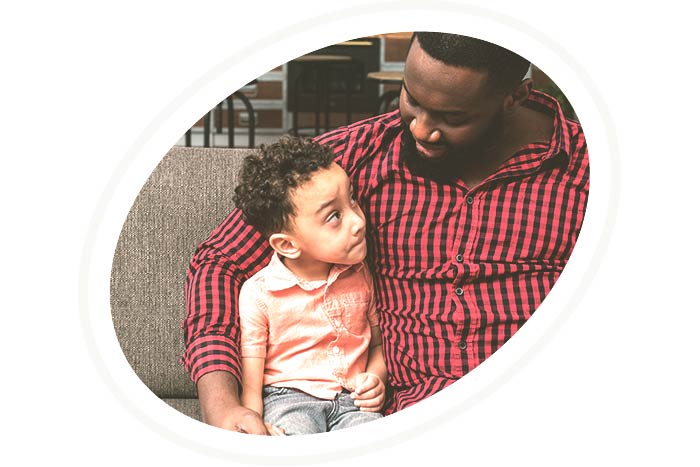
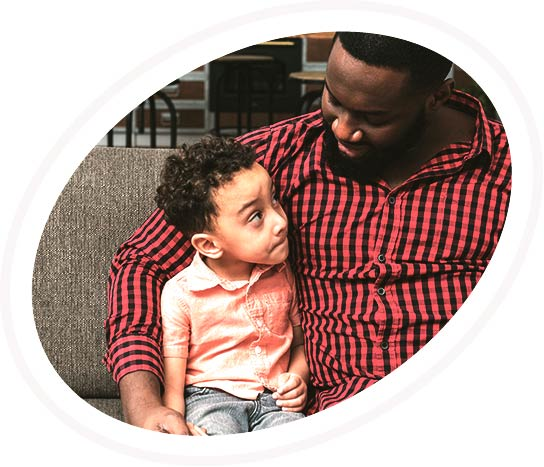
0.1.1 - Photos added to homepage

diff --git a/index.htm b/index.htm
@@ -85,7 +85,7 @@
 
 <!-- CONTAINER FOR CONTENT -->
     <main class="container">
-      <div class="col-6">
+      <div class="col-6 col-left">
         <div id="p-homepage-background-top-left">
           <p class="p-first">
             Mental Health Friendly Communities provides a listing of online resources describing 
@@ -98,10 +98,22 @@
             mental conditions.
           </p>
         </div>
+        <img src="/assets/img/copy/desktop/photo_homepage_left.jpg" alt="Mental Health Friendly Communities bring families back together." id="img-copy-homepage-left">
+        <p>
+          If you need information but aren&rsquo;t sure where to look on the site or aren&rsquo;t sure about your 
+          or your loved one&rsquo;s mental condition, please fill out the questionnaire below.
+        </p>
       </div>
-      <div class="col-6">
+      <div class="col-6 col-right">
         <div id="p-homepage-background-top-right">
           <iframe width="395" height="215" src="https://www.youtube.com/embed/XidXi3EqPko" frameborder="0" allow="accelerometer; autoplay; encrypted-media; gyroscope; picture-in-picture" allowfullscreen></iframe>
+          <img src="/assets/img/copy/desktop/photo_homepage_right.jpg" alt="Mental Health Friendly Communities bring families back together." id="img-copy-homepage-right">
+          <p>
+            Otherwise, you may start browsing our listings and directories using the search field below. 
+          </p>
+          <p>
+            You may also find links to our information using the main menu.
+          </p>
         </div>
       </div>
     </main>

diff --git a/assets/css/main.css b/assets/css/main.css
@@ -173,8 +173,7 @@ header {
 .carousel-item .carousel-cta p {
   margin: 1.5rem; }
 .carousel-item .carousel-cta .button-cta {
-  margin: 0 0 1.5rem 1.5rem;
-  display: relative; }
+  margin: 0 0 1.5rem 1.5rem; }
 
 /****** HOMEPAGE ELLIPSES ******/
 #homepage-ellipses {
@@ -186,9 +185,9 @@ header {
     position: relative;
     border-radius: 100%; }
   #homepage-ellipses #ellipse-blue {
-    width: 77.5%;
+    width: 88.5%;
     top: -56px;
-    left: 23%;
+    left: 12%;
     z-index: 1; }
   #homepage-ellipses #ellipse-dark_green {
     width: 100%;
@@ -202,7 +201,12 @@ header {
   display: flex; }
   .container .col-6 {
     display: flex;
-    flex: auto; }
+    flex: auto;
+    flex-direction: column; }
+  .container .col-left p {
+    margin: 36px 0 0 54px; }
+  .container .col-right p {
+    margin: 36px 0 0 62px; }
 
 #p-homepage-background-top-left {
   background-image: url("/assets/img/copy/desktop/background_homepage_copy_top.svg");
@@ -214,12 +218,19 @@ header {
 
 #p-homepage-background-top-right {
   width: 100%;
+  height: 261px;
   margin-top: 50px;
   background-image: url("/assets/img/copy/desktop/background_homepage_video.svg");
   background-repeat: no-repeat;
-  background-size: 90%;
+  background-size: 60%;
   background-position: 50% 0; }
   #p-homepage-background-top-right iframe {
     margin: 21px 0 0 63px; }
+
+#img-copy-homepage-left {
+  margin-top: 36px; }
+
+#img-copy-homepage-right {
+  margin: 70px 0 0 62px; }
 
 /*# sourceMappingURL=main.css.map */

diff --git a/assets/css/main.scss b/assets/css/main.scss
@@ -294,7 +294,6 @@ header {
 
     .button-cta {
       margin: 0 0 1.5rem 1.5rem; // 0 0 40px 40px
-      display: relative;
     }
   }
 }
@@ -314,9 +313,9 @@ header {
   }
 
   #ellipse-blue {
-    width: 77.5%;
+    width: 88.5%;
     top: -56px;
-    left: 23%;
+    left: 12%;
     z-index: 1;
   }
 
@@ -339,6 +338,19 @@ header {
   .col-6 {
     display: flex;
     flex: auto;
+    flex-direction: column;
+  }
+
+  .col-left {
+    p {
+      margin: $margin_med_px 0 0 54px;
+    }
+  }
+
+  .col-right {
+    p {
+      margin: $margin_med_px 0 0 62px;
+    }
   }
 }
 
@@ -351,16 +363,18 @@ header {
   }
 
   .p-first {
+    margin-top: 0;
     padding-top: 54px;
   }
 }
 
 #p-homepage-background-top-right {
   width: 100%;
+  height: 261px;
   margin-top: 50px;
   background-image: url('/assets/img/copy/desktop/background_homepage_video.svg');
   background-repeat: no-repeat;
-  background-size: 90%;
+  background-size: 60%;
   background-position: 50% 0;
 
   iframe {
@@ -368,4 +382,11 @@ header {
   }
 }
 
+#img-copy-homepage-left {
+  margin-top: $margin_med_px;
+}
+
+#img-copy-homepage-right {
+  margin: 70px 0 0 62px;
+}
 
